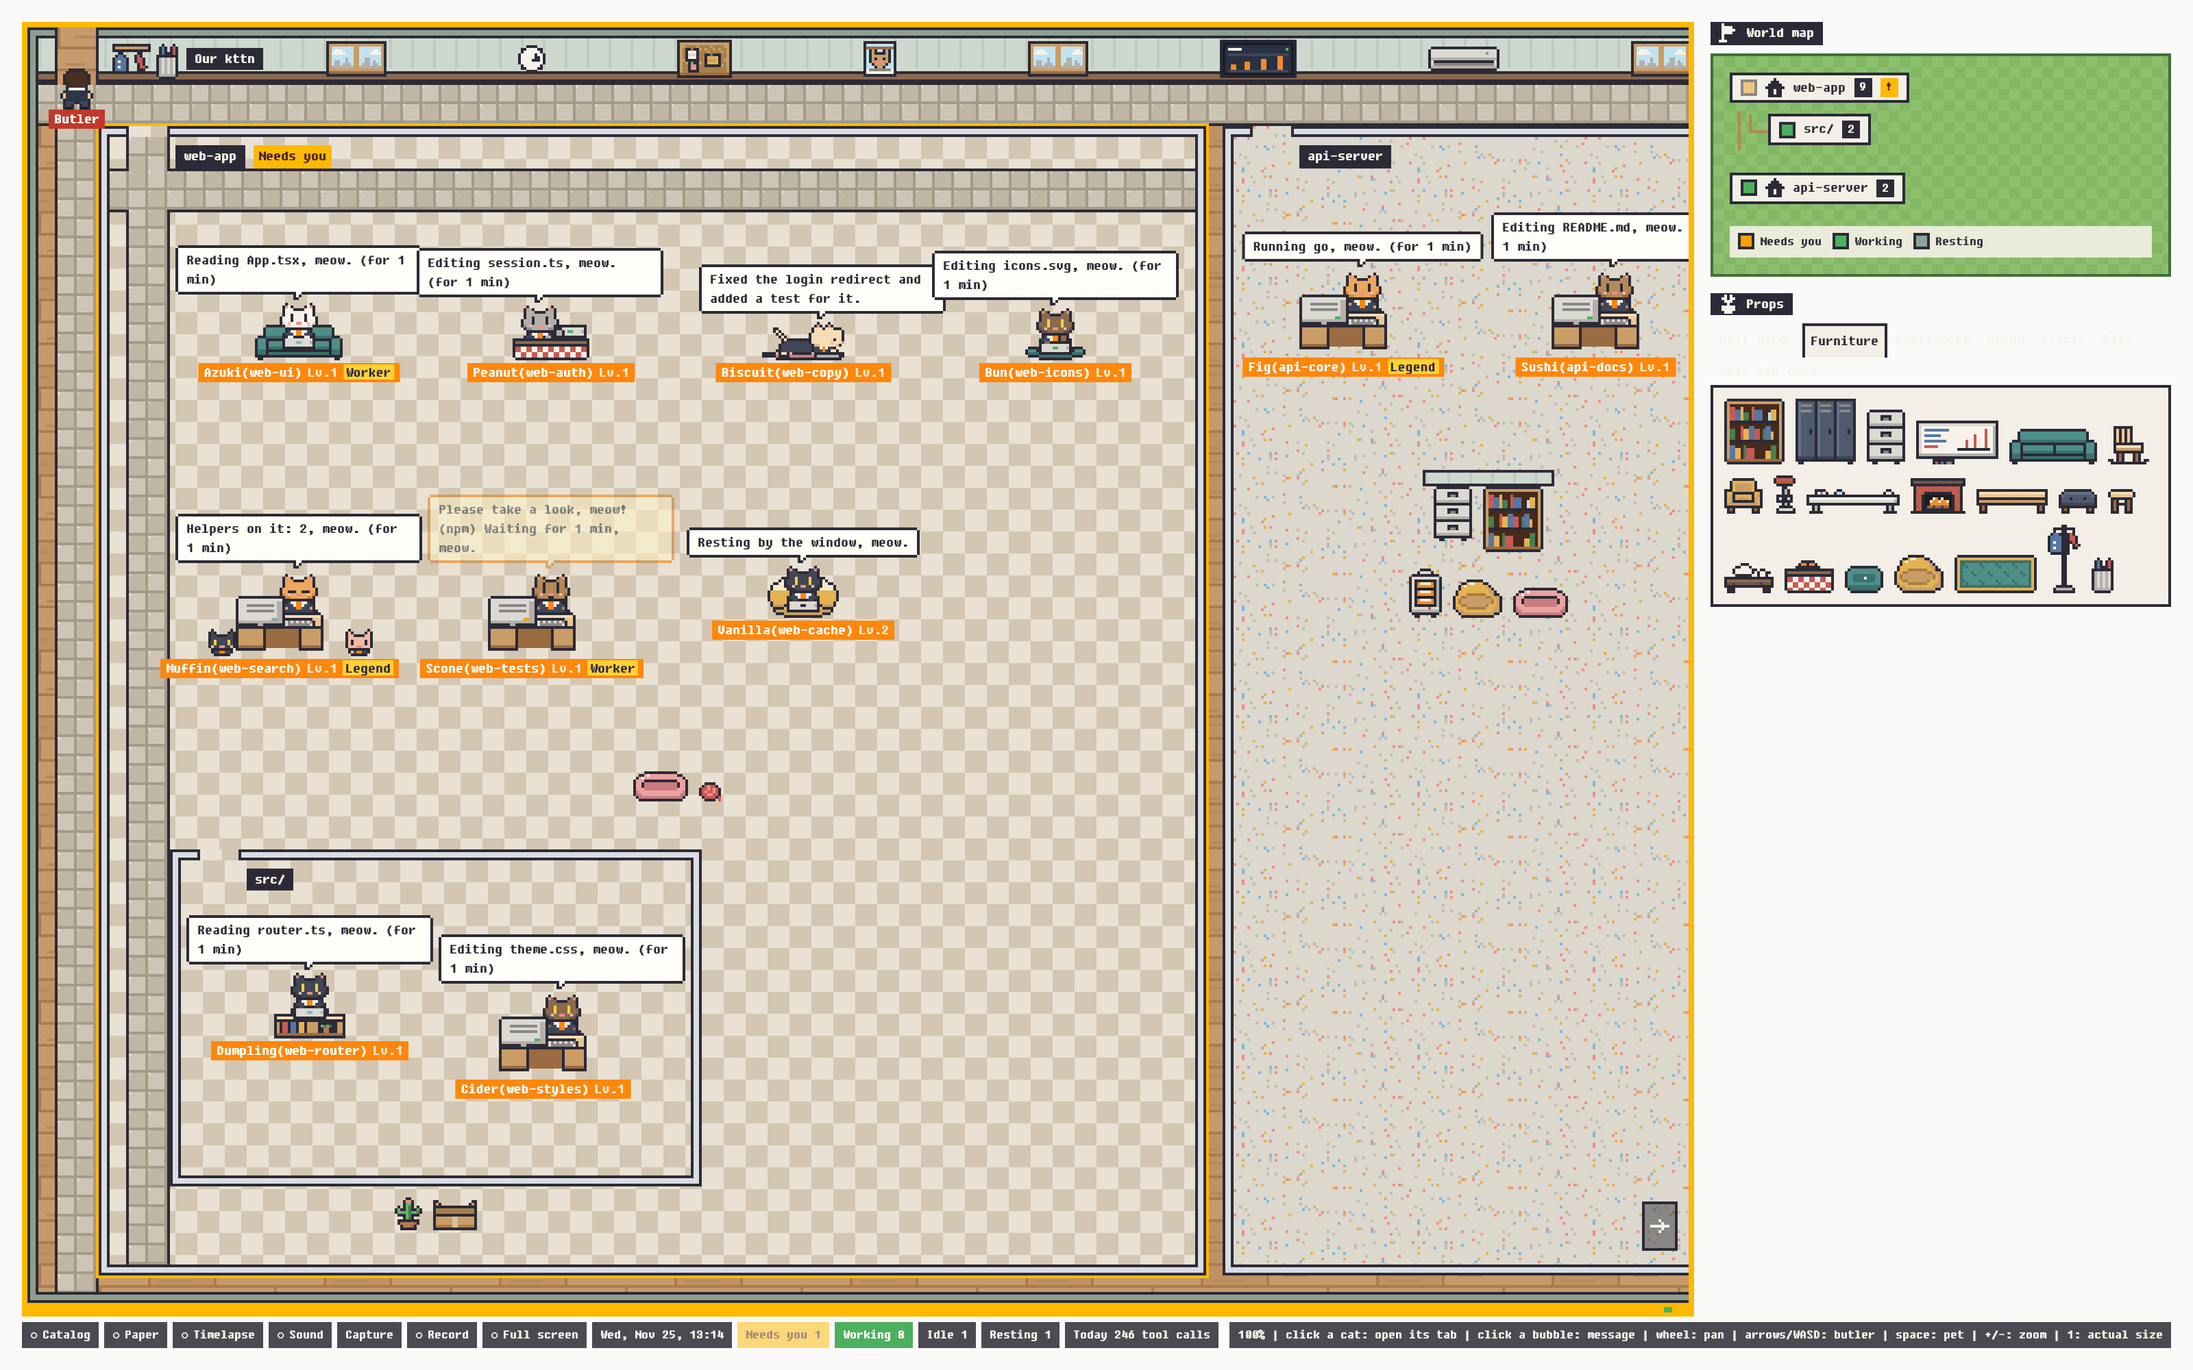
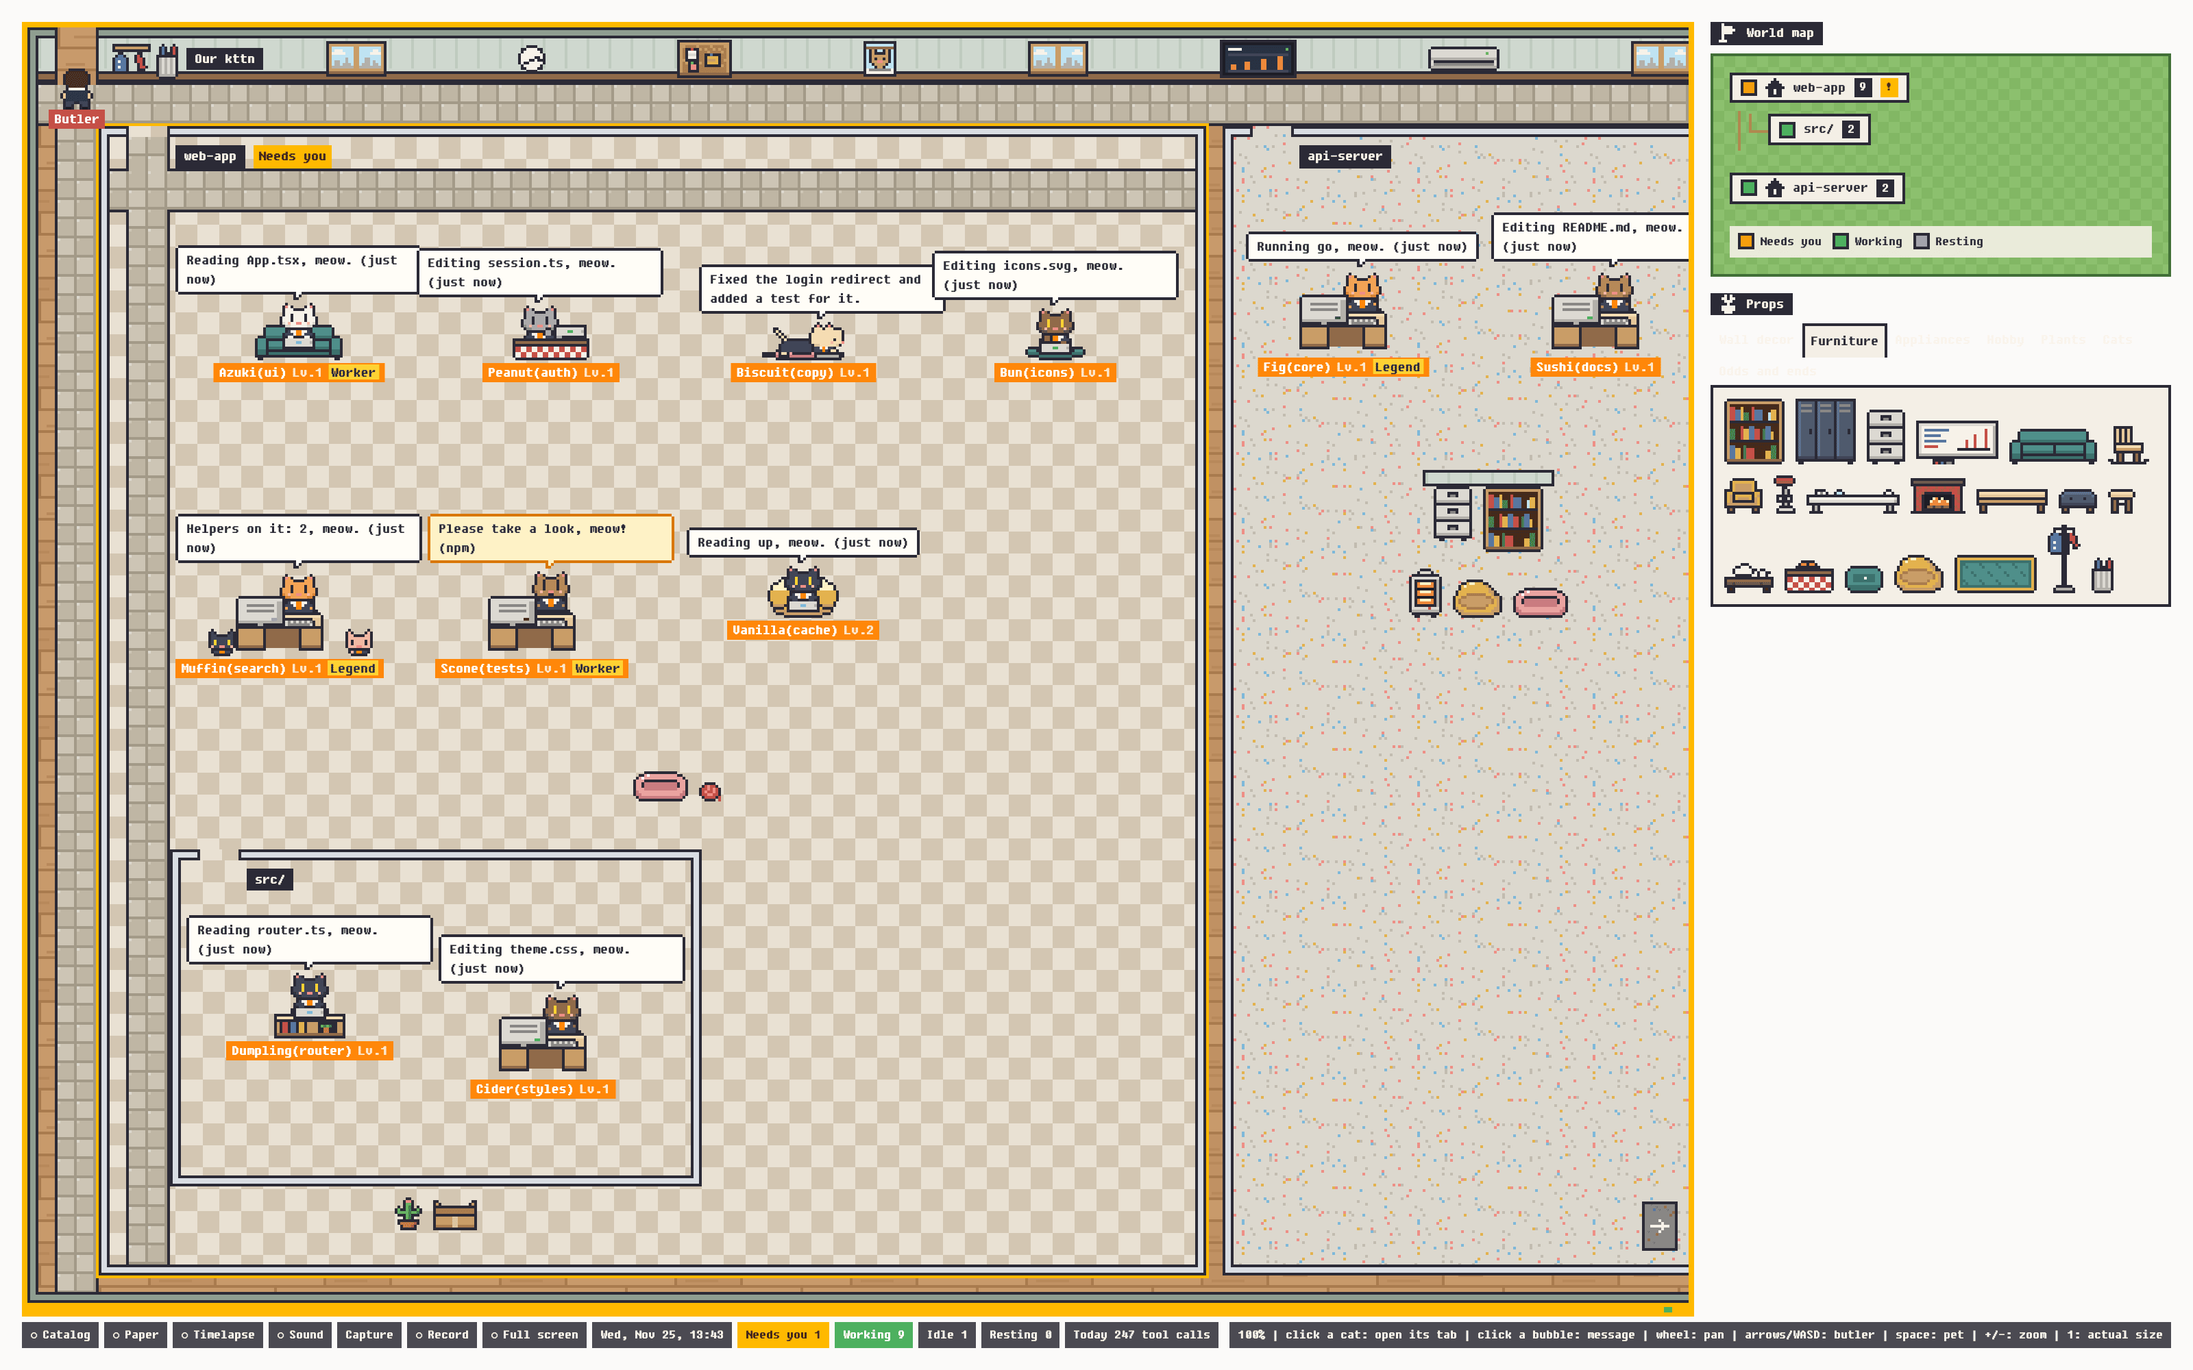
README: reshoot with short demo names, crop features at 2x, add See
7f's nits on e209d2e: the Japanese name labels no longer collide (the demo
sessions have short names), the session, kittens and needs-you crops are
368 px and shown at 184, the kittens crop keeps Muffin's whole label, and
the catalog row says See like the others. Reshot on the 0.13 walking build;
the bean-bag cat now works instead of dozing, so the hero alt text says so.

diff --git a/README.ja.md b/README.ja.md
@@ -16,7 +16,7 @@
 <p align="center"><a href="README.md">English</a> · <a href="README.ko.md">한국어</a> · <b>日本語</b></p>
 
 <p align="center">
-  <img src="https://raw.githubusercontent.com/hgwk/kttn/main/docs/images/hero-ja.png" width="880" alt="kttn: リポジトリのエリアとフォルダーの部屋で、机と自由席(ソファ、こたつ、タブレット、座布団、ビーズクッション、窓辺)の猫たちが読む、直す、確認待ち、回答済み、居眠りをしていて、ある猫のそばにサブエージェントの子猫が2匹いる">
+  <img src="https://raw.githubusercontent.com/hgwk/kttn/main/docs/images/hero-ja.png" width="880" alt="kttn: リポジトリのエリアとフォルダーの部屋。机と自由席(ソファ、こたつ、タブレット、座布団、ビーズクッション、窓辺)で猫たちが読んだり直したりしていて、確認待ちの猫と回答済みの猫がいて、ある猫のそばにサブエージェントの子猫が2匹いる">
   <br><sub><a href="https://raw.githubusercontent.com/hgwk/kttn/main/docs/images/full-ja.png">画面全体を見る</a></sub>
 </p>
 
@@ -45,11 +45,11 @@ kttn は macOS と Linux(arm64、x86-64)で動きます。**Windows には対応
 
 | | |
 | --- | --- |
-| <img src="https://raw.githubusercontent.com/hgwk/kttn/main/docs/images/feature-session.png" width="190" alt="吹き出しを出して机にいる猫"> | **セッションひとつに猫一匹。** 読む、直す、コマンドを動かす、考える、しばらく静かなら居眠り、セッションが終われば退勤。回答プレビューをオンにすると、仕事を終えた猫が何をしたか話します。 |
+| <img src="https://raw.githubusercontent.com/hgwk/kttn/main/docs/images/feature-session.png" width="184" alt="吹き出しを出して机にいる猫"> | **セッションひとつに猫一匹。** 読む、直す、コマンドを動かす、考える、しばらく静かなら居眠り、セッションが終われば退勤。回答プレビューをオンにすると、仕事を終えた猫が何をしたか話します。 |
 | <img src="https://raw.githubusercontent.com/hgwk/kttn/main/docs/images/feature-seats.png" width="438" alt="自由席の猫6匹: ソファ、こたつ、うつぶせでタブレット、座布団でノートパソコン、ビーズクッション、窓辺"> | **机と自由席。** 机のほかに、座布団でノートパソコン、うつぶせでタブレット、ビーズクッション、ソファ、窓辺、こたつでも働きます。猫ごとに席が決まっています。 |
 | <img src="https://raw.githubusercontent.com/hgwk/kttn/main/docs/images/feature-map.png" width="340" alt="リポジトリとフォルダーが並ぶワールドマップ"> | **エリアはリポジトリ、部屋はフォルダー。** ワールドマップに猫の数と一緒に並び、地点を押すとその部屋へ移動します。 |
-| <img src="https://raw.githubusercontent.com/hgwk/kttn/main/docs/images/feature-kittens.png" width="190" alt="机のそばに子猫が2匹いる猫"> | **子猫はサブエージェント。** 仕事が終わるまで机のそばにいます。バックグラウンドで動くものも同じです。 |
-| <img src="https://raw.githubusercontent.com/hgwk/kttn/main/docs/images/feature-needs-you.png" width="185" alt="確認をお願いして点滅する吹き出し"> | **確認が必要。** 権限の確認を待つ猫は点滅し、その部屋とエリアにも印が付くので、どこからでも分かります。 |
+| <img src="https://raw.githubusercontent.com/hgwk/kttn/main/docs/images/feature-kittens.png" width="184" alt="机のそばに子猫が2匹いる猫"> | **子猫はサブエージェント。** 仕事が終わるまで机のそばにいます。バックグラウンドで動くものも同じです。 |
+| <img src="https://raw.githubusercontent.com/hgwk/kttn/main/docs/images/feature-needs-you.png" width="184" alt="確認をお願いして点滅する吹き出し"> | **確認が必要。** 権限の確認を待つ猫は点滅し、その部屋とエリアにも印が付くので、どこからでも分かります。 |
 | <img src="https://raw.githubusercontent.com/hgwk/kttn/main/docs/images/feature-butler.png" width="130" alt="入り口にいる執事"> | **執事。** 猫を押すと執事が歩いていき、そのセッションのターミナルのタブを前に出します。吹き出しを押すと、そのセッションにメッセージを送れます。 |
 | <img src="https://raw.githubusercontent.com/hgwk/kttn/main/docs/images/feature-catalog.png" width="248" alt="図鑑のカード2枚: 退勤した猫と、伝説、夜ふかし、古株の称号を持つ Lv.30 の猫"> | **猫図鑑。** 退勤した猫まで、出会った猫すべてをレベル、称号、ツール数、同時勤務の最高記録と一緒に見せます。[残すもの](#セッションから出ていくもの)を見てください。 |
 | 🔒 | **短いラベルだけ。** プロンプト、ファイルの内容、コマンドの引数、エラーの文言はセッションの外に出ません。[セッションから出ていくもの](#セッションから出ていくもの)を見てください。 |

diff --git a/README.ko.md b/README.ko.md
@@ -16,7 +16,7 @@
 <p align="center"><a href="README.md">English</a> · <b>한국어</b> · <a href="README.ja.md">日本語</a></p>
 
 <p align="center">
-  <img src="https://raw.githubusercontent.com/hgwk/kttn/main/docs/images/hero-ko.png" width="880" alt="kttn: 저장소의 구역과 폴더의 방에서 책상과 자유 자리(소파, 고타쓰, 태블릿, 방석, 빈백, 창턱)의 고양이들이 읽기, 고치기, 확인 대기, 답변 완료, 졸기를 하고 있고, 한 고양이 곁에 하위 에이전트 새끼 고양이 둘이 서 있다">
+  <img src="https://raw.githubusercontent.com/hgwk/kttn/main/docs/images/hero-ko.png" width="880" alt="kttn: 저장소의 구역과 폴더의 방에서 책상과 자유 자리(소파, 고타쓰, 태블릿, 방석, 빈백, 창턱)의 고양이들이 읽기, 고치기, 확인 대기, 답변 완료를 하고 있고, 한 고양이 곁에 하위 에이전트 새끼 고양이 둘이 서 있다">
   <br><sub><a href="https://raw.githubusercontent.com/hgwk/kttn/main/docs/images/full-ko.png">전체 화면 보기</a></sub>
 </p>
 
@@ -44,11 +44,11 @@ kttn은 macOS와 Linux(arm64, x86-64)에서 돕니다. **Windows는 지원하지
 
 | | |
 | --- | --- |
-| <img src="https://raw.githubusercontent.com/hgwk/kttn/main/docs/images/feature-session.png" width="190" alt="말풍선을 띄운 채 책상에 앉은 고양이"> | **세션 하나에 고양이 하나.** 읽고, 고치고, 명령을 돌리고, 생각하고, 한동안 조용하면 졸고, 세션이 끝나면 퇴근합니다. 답변 미리보기를 켜면 일을 마친 고양이가 무엇을 했는지 말합니다. |
+| <img src="https://raw.githubusercontent.com/hgwk/kttn/main/docs/images/feature-session.png" width="184" alt="말풍선을 띄운 채 책상에 앉은 고양이"> | **세션 하나에 고양이 하나.** 읽고, 고치고, 명령을 돌리고, 생각하고, 한동안 조용하면 졸고, 세션이 끝나면 퇴근합니다. 답변 미리보기를 켜면 일을 마친 고양이가 무엇을 했는지 말합니다. |
 | <img src="https://raw.githubusercontent.com/hgwk/kttn/main/docs/images/feature-seats.png" width="438" alt="자유 자리의 고양이 여섯: 소파, 고타쓰, 엎드려 태블릿, 방석 노트북, 빈백, 창턱"> | **책상과 자유 자리.** 책상 말고도 방석 노트북, 엎드려 태블릿, 빈백, 소파, 창턱, 고타쓰에서 일합니다. 고양이마다 자리가 정해져 있습니다. |
 | <img src="https://raw.githubusercontent.com/hgwk/kttn/main/docs/images/feature-map.png" width="340" alt="저장소와 폴더가 적힌 월드맵"> | **구역은 저장소, 방은 폴더.** 월드맵에 냥이 수와 함께 나오고, 지점을 누르면 그 방으로 갑니다. |
-| <img src="https://raw.githubusercontent.com/hgwk/kttn/main/docs/images/feature-kittens.png" width="190" alt="책상 옆에 새끼 고양이 둘이 서 있는 고양이"> | **새끼 고양이는 하위 에이전트.** 일이 끝날 때까지 책상 옆에 서 있습니다. 백그라운드로 띄운 것도 마찬가지입니다. |
-| <img src="https://raw.githubusercontent.com/hgwk/kttn/main/docs/images/feature-needs-you.png" width="185" alt="확인을 부탁하며 깜빡이는 말풍선"> | **확인 필요.** 권한 확인을 기다리는 고양이는 깜빡이고, 그 방과 구역도 함께 표시돼 어디서든 보입니다. |
+| <img src="https://raw.githubusercontent.com/hgwk/kttn/main/docs/images/feature-kittens.png" width="184" alt="책상 옆에 새끼 고양이 둘이 서 있는 고양이"> | **새끼 고양이는 하위 에이전트.** 일이 끝날 때까지 책상 옆에 서 있습니다. 백그라운드로 띄운 것도 마찬가지입니다. |
+| <img src="https://raw.githubusercontent.com/hgwk/kttn/main/docs/images/feature-needs-you.png" width="184" alt="확인을 부탁하며 깜빡이는 말풍선"> | **확인 필요.** 권한 확인을 기다리는 고양이는 깜빡이고, 그 방과 구역도 함께 표시돼 어디서든 보입니다. |
 | <img src="https://raw.githubusercontent.com/hgwk/kttn/main/docs/images/feature-butler.png" width="130" alt="문 앞의 집사"> | **집사.** 고양이를 누르면 집사가 걸어가 그 세션의 터미널 탭을 앞으로 띄웁니다. 말풍선을 누르면 그 세션에 메시지를 보냅니다. |
 | <img src="https://raw.githubusercontent.com/hgwk/kttn/main/docs/images/feature-catalog.png" width="248" alt="도감 카드 둘: 퇴근한 고양이와 전설, 올빼미, 고참 칭호를 단 Lv.30 고양이"> | **고양이 도감.** 퇴근한 고양이까지 만난 고양이 모두를 레벨, 칭호, 도구 수, 동시 근무 최고 기록과 함께 보여 줍니다. [남기는 것](#세션에서-나가는-것)을 보세요. |
 | 🔒 | **짧은 표시만.** 프롬프트, 파일 내용, 명령 인자, 오류 문구는 세션 밖으로 나가지 않습니다. [세션에서 나가는 것](#세션에서-나가는-것)을 보세요. |

diff --git a/README.md b/README.md
@@ -16,7 +16,7 @@
 <p align="center"><b>English</b> · <a href="README.ko.md">한국어</a> · <a href="README.ja.md">日本語</a></p>
 
 <p align="center">
-  <img src="https://raw.githubusercontent.com/hgwk/kttn/main/docs/images/hero-en.png" width="880" alt="kttn: a repository's area and a folder's room, with cats at desks and on free seats (a sofa, a kotatsu, a tablet, a cushion, a bean bag, a window sill) reading, editing, waiting for a permission answer, showing a finished result and dozing, and a cat with two subagent kittens">
+  <img src="https://raw.githubusercontent.com/hgwk/kttn/main/docs/images/hero-en.png" width="880" alt="kttn: a repository's area and a folder's room, with cats at desks and on free seats (a sofa, a kotatsu, a tablet, a cushion, a bean bag, a window sill) reading, editing, waiting for a permission answer and showing a finished result, and a cat with two subagent kittens">
   <br><sub><a href="https://raw.githubusercontent.com/hgwk/kttn/main/docs/images/full-en.png">Full view</a></sub>
 </p>
 
@@ -45,13 +45,13 @@ kttn runs on macOS and Linux (arm64 and x86-64). **Windows is not supported.**
 
 | | |
 | --- | --- |
-| <img src="https://raw.githubusercontent.com/hgwk/kttn/main/docs/images/feature-session.png" width="190" alt="A cat at its desk with a speech bubble"> | **One cat per session.** It reads, edits, runs commands, thinks, naps after a quiet spell and goes home when the session ends. With answer preview on, a finished cat says what it did. |
+| <img src="https://raw.githubusercontent.com/hgwk/kttn/main/docs/images/feature-session.png" width="184" alt="A cat at its desk with a speech bubble"> | **One cat per session.** It reads, edits, runs commands, thinks, naps after a quiet spell and goes home when the session ends. With answer preview on, a finished cat says what it did. |
 | <img src="https://raw.githubusercontent.com/hgwk/kttn/main/docs/images/feature-seats.png" width="438" alt="Six cats on free seats: a sofa, a kotatsu, lying down with a tablet, a cushion with a laptop, a bean bag and a window sill"> | **Desks and free seats.** Besides desks, cats work from a cushion with a laptop, lying down with a tablet, a bean bag, the sofa, the window sill or a kotatsu. Each cat keeps its seat. |
 | <img src="https://raw.githubusercontent.com/hgwk/kttn/main/docs/images/feature-map.png" width="340" alt="The world map listing repositories and folders"> | **Areas are repositories, rooms are folders.** The world map lists them with how many cats are in each; click a spot to jump to that room. |
-| <img src="https://raw.githubusercontent.com/hgwk/kttn/main/docs/images/feature-kittens.png" width="190" alt="A cat with two kittens beside its desk"> | **Kittens are subagents.** They stand by the desk until they finish, background ones included. |
-| <img src="https://raw.githubusercontent.com/hgwk/kttn/main/docs/images/feature-needs-you.png" width="185" alt="A blinking speech bubble asking for a look"> | **Needs you.** A cat waiting on a permission prompt blinks, and its room and area light up so you see it from anywhere. |
+| <img src="https://raw.githubusercontent.com/hgwk/kttn/main/docs/images/feature-kittens.png" width="184" alt="A cat with two kittens beside its desk"> | **Kittens are subagents.** They stand by the desk until they finish, background ones included. |
+| <img src="https://raw.githubusercontent.com/hgwk/kttn/main/docs/images/feature-needs-you.png" width="184" alt="A blinking speech bubble asking for a look"> | **Needs you.** A cat waiting on a permission prompt blinks, and its room and area light up so you see it from anywhere. |
 | <img src="https://raw.githubusercontent.com/hgwk/kttn/main/docs/images/feature-butler.png" width="130" alt="The butler at the door"> | **The butler.** Click a cat and the butler walks over and brings its terminal tab to the front; click a speech bubble to type a message into that session. |
-| <img src="https://raw.githubusercontent.com/hgwk/kttn/main/docs/images/feature-catalog.png" width="248" alt="Two catalog cards: a cat that went home and a Lv.30 cat at work with Legend, Night owl and Old hand titles"> | **Cat catalog.** Every cat kttn has met, including ones that went home, with its level, titles, tool count and the most cats at once. [What it keeps](#what-leaves-a-session). |
+| <img src="https://raw.githubusercontent.com/hgwk/kttn/main/docs/images/feature-catalog.png" width="248" alt="Two catalog cards: a cat that went home and a Lv.30 cat at work with Legend, Night owl and Old hand titles"> | **Cat catalog.** Every cat kttn has met, including ones that went home, with its level, titles, tool count and the most cats at once. See [what it keeps](#what-leaves-a-session). |
 | 🔒 | **Short labels only.** Prompts, file contents, command arguments and error texts never leave the session. See [what leaves a session](#what-leaves-a-session). |
 
 **Also**
